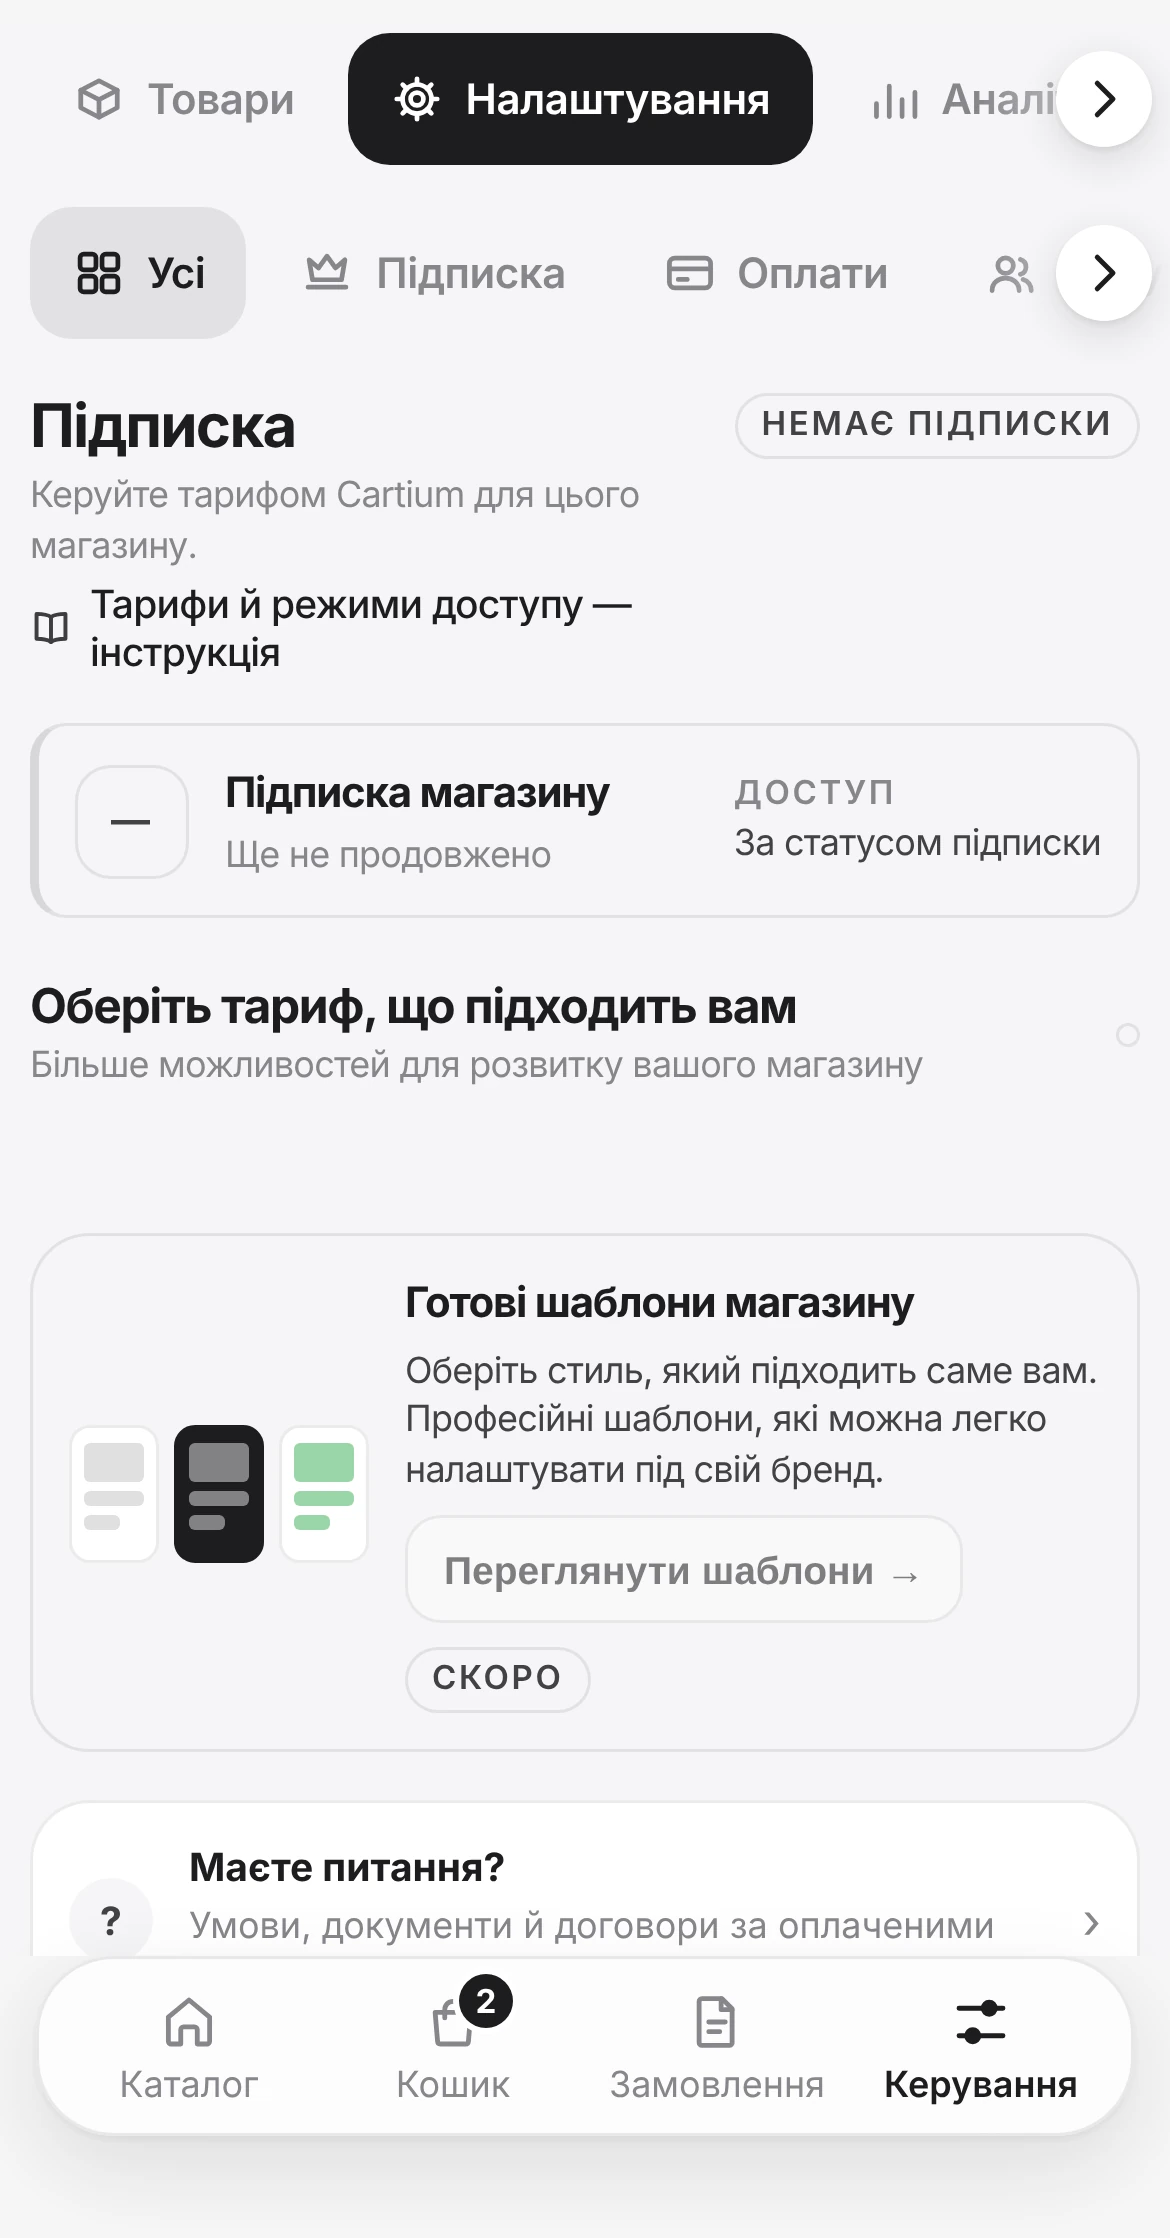
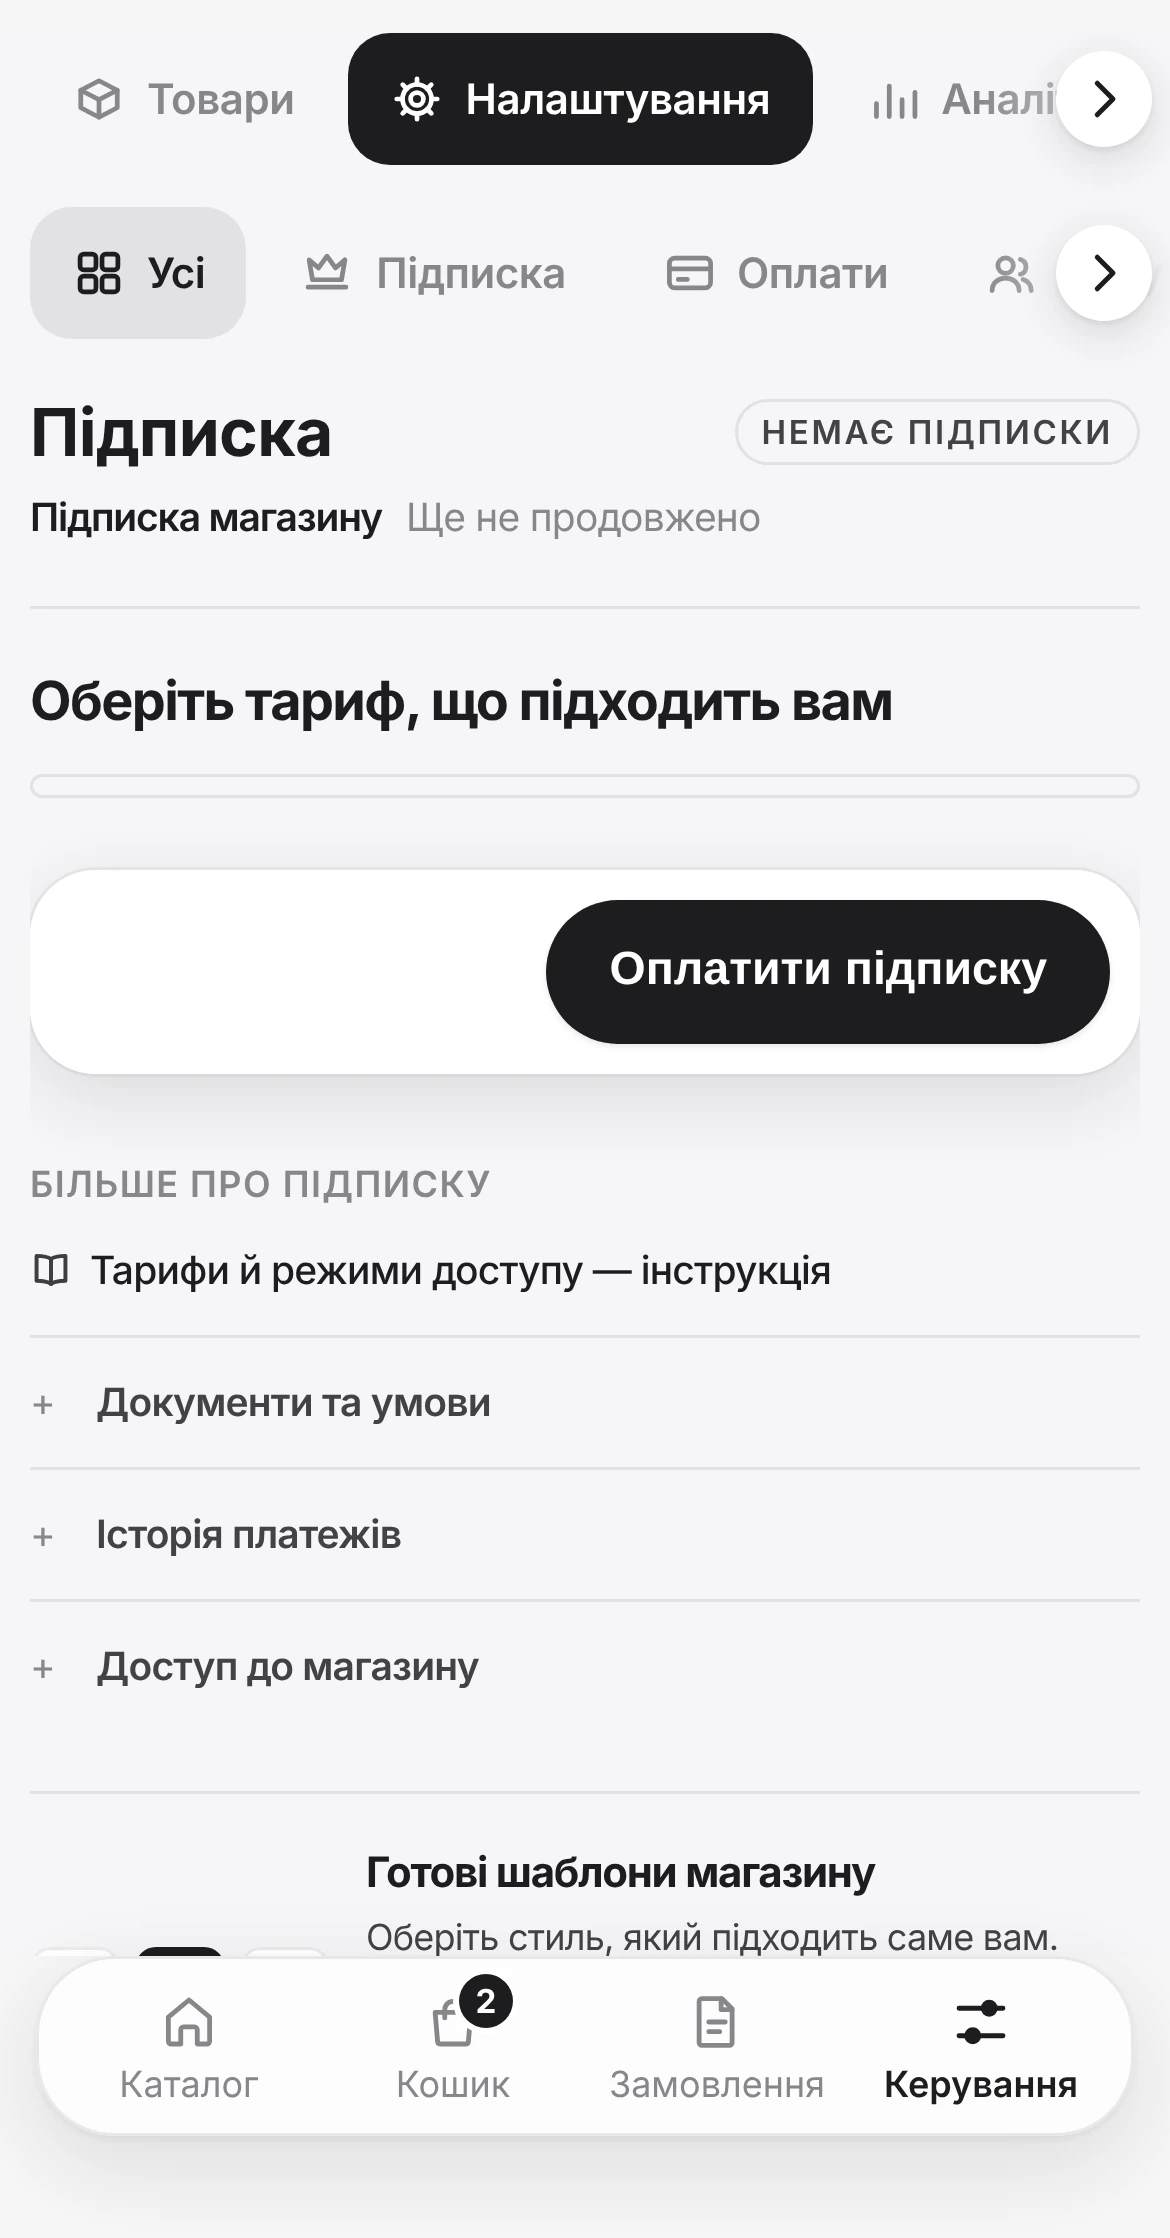
Підписка: новий екран оплати, оновлені знімки
Claude-Session: https://claude.ai/code/session_01Tv2wQKJRwy2x9o7FNnTaLJ

diff --git a/docs/_internal/platform-facts.md b/docs/_internal/platform-facts.md
@@ -413,3 +413,4 @@ refs для міста і відділення.
 - Перегляд: справжній магазин у рамці (`Як побачать покупці`, `Картка` / `Сторінка`), незбережений товар першим у сітці; дотик по картці відкриває сторінку.
 - `Видалити товар` / `Видалити`: м'яке видалення (товар зникає з каталогу й списку, замовлення лишаються).
 
+**Підписка v2 (2026-11-15, PR #44).** Екран `Підписка`: заголовок і статус, під ним одним рядком тариф і «Оплачено до…»; перемикач `Місяць` / `Рік` (−20%); тарифи списком (рядок цілком вибирає тариф, радіо праворуч, у поточного тарифу мітка «Ваш тариф»; цифри тарифу видно лише у вибраного, решта — через `Детальніше`); закріплена панель оплати: «<Тариф> · <період>», економія для річного, кнопка `Оплатити $N`. Нижче блок `Більше про підписку`: інструкція, `Документи та умови`, `Історія платежів`, `Доступ до магазину`, тизер `Готові шаблони магазину`, `Маєте питання?`.
